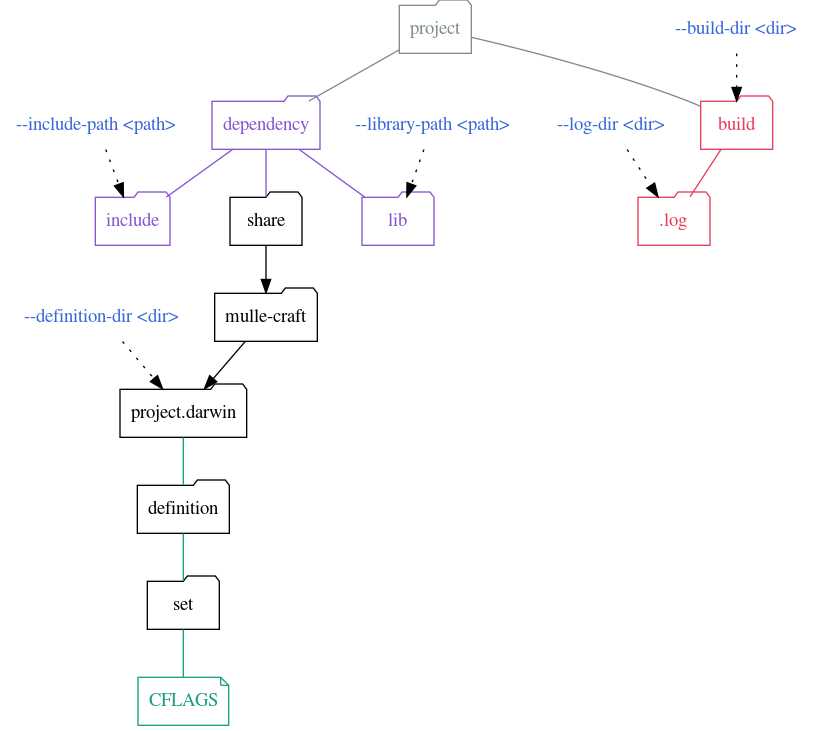
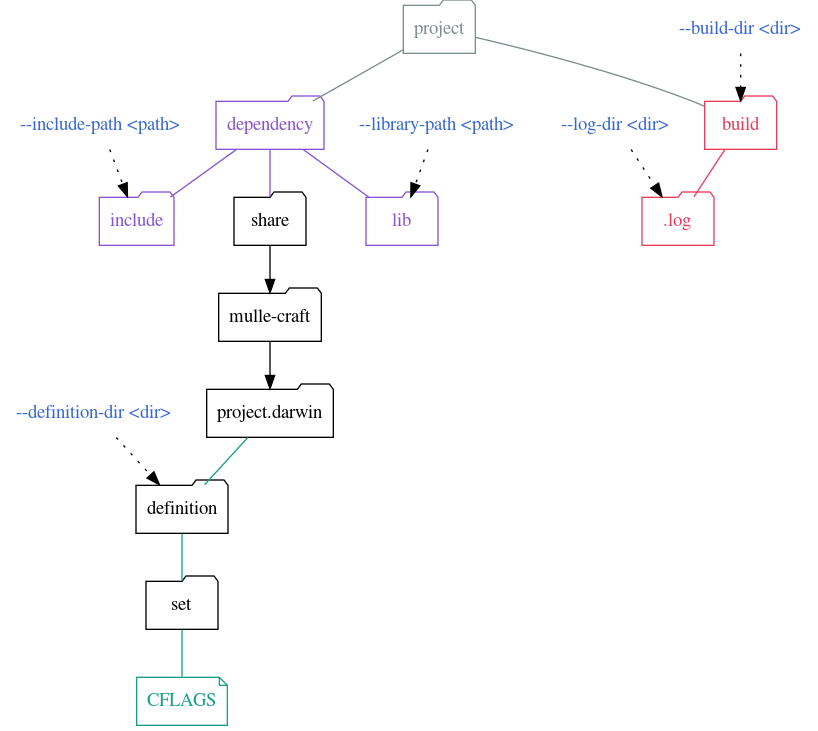
Improved documentation
Slight code improvement

diff --git a/README.md b/README.md
@@ -16,7 +16,7 @@ It will then proceed to build the project using that tool.
 > For the sake of understandability, mulle-make does not evaluate any
 > environment variables (such as CFLAGS) during construction of the
 > build tool arguments.
-> Build settings are are either set with `info` directories or with
+> Build settings are either set with `definition` directories or with
 > commandline parameters.
 
 
@@ -33,7 +33,7 @@ to install mulle-sde.
 
 ## What **mulle-make** does
 
-Essentially, **mulle-make** does:
+Essentially, **mulle-make** does (for cmake projects):
 
 ```
 mkdir build
@@ -42,7 +42,28 @@ cmake ..
 ninja
 ```
 
-But it can do this for an expandable variety of build tools.
+## Example
+
+Here we use **mulle-make** in conjunction with [mulle-fetch](//github.com/mulle-sde/mulle-fetch) to conveniently download and build an autoconf based project:
+
+```
+$ mulle-fetch https://ftp-stud.hs-esslingen.de/pub/Mirrors/ftp.gnu.org/bison/bison-3.5.4.tar.xz
+Fetching bison from https://ftp-stud.hs-esslingen.de/pub/Mirrors/ftp.gnu.org/bison/bison-3.5.4.tar.xz.
+$ cd bison/
+$ mulle-make -lx
+==> mkdir -p '/tmp/bison/build'
+==> mkdir -p '/tmp/bison/build/.log'
+=[29701]=> find -L '/tmp/bison' -maxdepth 2 -name CMakeLists.txt -print
+=[29704]=> find -L '/tmp/bison' -maxdepth 2 -name meson.build -print
+=[29707]=> find -L '/tmp/bison' -maxdepth 2 -name configure.ac -print
+=[29711]=> find -L '/tmp/bison' -maxdepth 2 -name configure -print
+Let configure do a Release build of bison for SDK Default in "build" ...
+=[29722]=> cd '/tmp/bison/build'
+=[29723]=> MULLE_MAKE_VERSION='0.14.4' __MULLE_MAKE_ENV_ARGS='': './configure'    >> /tmp/bison/build/.log/configure.log
+=[35879]=> '/usr/bin/make'  VERBOSE=1 -j 40 all >> /tmp/bison/build/.log/make.log
+$
+```
+
 
 
 ## Project structure
